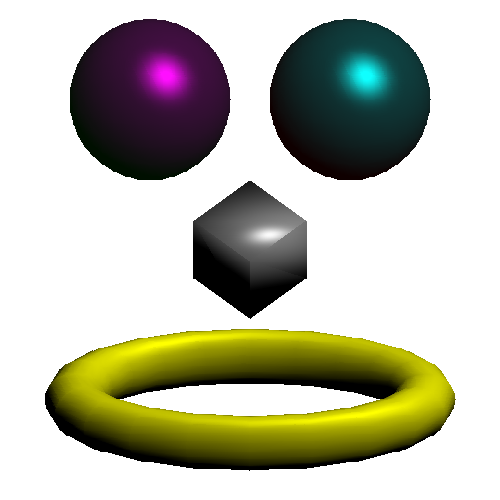
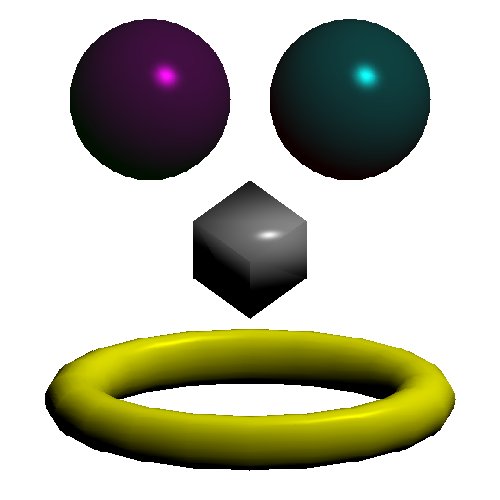
I think I'm finally done with the things I want to add right now

Changed region(s): [[0.66, 0.09, 0.81, 0.21], [0.27, 0.09, 0.39, 0.21], [0.48, 0.45, 0.6, 0.51]]

diff --git a/draw.c b/draw.c
@@ -9,6 +9,7 @@
 #include "gmath.h"
 #include "symtab.h"
 #include "hashTable.h"
+#include "kdTree.h"
 
 /*======== void draw_scanline() ==========
   Inputs: struct matrix *points
@@ -19,7 +20,7 @@
 
   Line algorithm specifically for horizontal scanlines
   ====================*/
-void draw_scanline(int x0, double z0, int x1, double z1, int y, screen s, zbuffer zb, color c0, color c1) {
+void draw_scanline_gouraud(int x0, double z0, int x1, double z1, int y, screen s, zbuffer zb, color c0, color c1) {
   int tempX, tempZ;
   color tempC;
   double cR, cG, cB, dcR, dcG, dcB;
@@ -132,7 +133,7 @@ void draw_scanline_phong(int x0, double z0, int x1, double z1, int y, screen s, 
 
   Fills in polygon i by drawing consecutive horizontal (or vertical) lines.
   ====================*/
-void scanline_convert( struct matrix *points, int i, screen s, zbuffer zb, struct hashTable* h) {
+void scanline_convert_gouraud( struct matrix *points, int i, screen s, zbuffer zb, struct kdTree* kd) {
 
   int top, mid, bot, y;
   double topV[3], midV[3], botV[3];
@@ -221,9 +222,9 @@ void scanline_convert( struct matrix *points, int i, screen s, zbuffer zb, struc
   botV[1] = points->m[1][bot];
   botV[2] = points->m[2][bot];
 
-  iTop = getColor(h, topV);
-  iMid = getColor(h, midV);
-  iBot = getColor(h, botV);
+  iTop = kdGetColor(kd, topV);
+  iMid = kdGetColor(kd, midV);
+  iBot = kdGetColor(kd, botV);
 
   c0R = iBot.red;
   c0G = iBot.green;
@@ -274,7 +275,7 @@ void scanline_convert( struct matrix *points, int i, screen s, zbuffer zb, struc
 
     //printf("%f %f %f %f %f %f\n%d %d %d %d %d %d\n",c0R, c0G, c0B, c1R, c1G, c1B,c0.red,c0.green,c0.blue,c1.red,c1.green,c1.blue);
 
-    draw_scanline(x0, z0, x1, z1, y, s, zb, c0, c1);
+    draw_scanline_gouraud(x0, z0, x1, z1, y, s, zb, c0, c1);
 
     x0+= dx0;
     x1+= dx1;
@@ -294,7 +295,7 @@ void scanline_convert( struct matrix *points, int i, screen s, zbuffer zb, struc
   }//end scanline loop
 }
 
-void scanline_convert_phong( struct matrix *points, int i, screen s, zbuffer zb, struct hashTable* h,
+void scanline_convert_phong( struct matrix *points, int i, screen s, zbuffer zb, struct kdTree* kd, 
   double* view, double light[2][3], color ambient, struct constants* reflect) {
 
   int top, mid, bot, y;
@@ -383,9 +384,9 @@ void scanline_convert_phong( struct matrix *points, int i, screen s, zbuffer zb,
   botV[1] = points->m[1][bot];
   botV[2] = points->m[2][bot];
 
-  set(nTop,getNormal(h, topV));
-  set(nMid,getNormal(h, midV));
-  set(nBot,getNormal(h, botV));
+  set(nTop,kdGetNormal(kd, topV));
+  set(nMid,kdGetNormal(kd, midV));
+  set(nBot,kdGetNormal(kd, botV));
 
   //printf("Top: %f %f %f\nMid: %f %f %f\nBot: %f %f %f\n\n", nTop[0], nTop[1], nTop[2], nMid[0], nMid[1], nMid[2], nBot[0], nBot[1], nBot[2]);
   //printf("%f\n", nBot[0] * nBot[0] + nBot[1] * nBot[1] + nBot[2] * nBot[2]);
@@ -494,7 +495,8 @@ void draw_polygons( struct matrix *polygons, screen s, zbuffer zb,
   double v0[3];
   double v1[3];
   double v2[3];
-  struct hashTable* h = createHT(65536);
+  //struct hashTable* h = createHT(65536);
+  struct kdTree* kd = kdCreate();
   double** normals = malloc(sizeof(double) * (polygons->lastcol));
 
   double drawPercent = 0;
@@ -536,14 +538,14 @@ void draw_polygons( struct matrix *polygons, screen s, zbuffer zb,
     v2[1] = polygons->m[1][point+2];
     v2[2] = polygons->m[2][point+2];
 
-    h = addNormal(h, v0, normal);
-    h = addNormal(h, v1, normal);
-    h = addNormal(h, v2, normal);
+    kd = kdInsert(kd, v0, normal);
+    kd = kdInsert(kd, v1, normal);
+    kd = kdInsert(kd, v2, normal);
 
     //printf("Generating lighting\t%d percent complete\n", (int)(drawPercent*100));
   }
 
-  htNormalize(h, viewNormal, lightNormal, ambient, reflect);
+  kdNormalize(kd, viewNormal, lightNormal, ambient, reflect);
   //printHT(h);
 
   drawPercent = 0;
@@ -560,8 +562,8 @@ void draw_polygons( struct matrix *polygons, screen s, zbuffer zb,
       // get color value only if front facing
       //color i = get_lighting(normal, view, ambient, light, areflect, dreflect, sreflect);
 
-      //scanline_convert(polygons, point, s, zb, h);
-      scanline_convert_phong(polygons, point, s, zb, h, viewNormal, lightNormal, ambient, reflect);
+      if(DRAW_CURRENT == DRAW_GOURAUD) scanline_convert_gouraud(polygons, point, s, zb, kd);
+      else if(DRAW_CURRENT == DRAW_PHONG) scanline_convert_phong(polygons, point, s, zb, kd, viewNormal, lightNormal, ambient, reflect);
 
       /* draw_line( polygons->m[0][point], */
       /*            polygons->m[1][point], */
@@ -589,7 +591,8 @@ void draw_polygons( struct matrix *polygons, screen s, zbuffer zb,
     //printf("Drawing\t%d percent complete\n", (int)(drawPercent*100));
   }
 
-  freeHT(h);
+  //freeHT(h);
+  kdFree(kd);
   free(normals);
 }
 /*======== void add_box() ==========

diff --git a/draw.h b/draw.h
@@ -6,12 +6,17 @@
 #include "ml6.h"
 #include "symtab.h"
 #include "hashTable.h"
+#include "kdTree.h"
 
-void draw_scanline(int x0, double z0, int x1, double z1, int y, screen s, zbuffer zb, color c0, color c1);
-void scanline_convert( struct matrix *points, int i, screen s, zbuffer zb, struct hashTable* h);
+#define DRAW_GOURAUD 0
+#define DRAW_PHONG 1
+#define DRAW_CURRENT 1
+
+void draw_scanline_gouraud(int x0, double z0, int x1, double z1, int y, screen s, zbuffer zb, color c0, color c1);
+void scanline_convert_gouraud( struct matrix *points, int i, screen s, zbuffer zb, struct kdTree* kd);
 void draw_scanline_phong(int x0, double z0, int x1, double z1, int y, screen s, zbuffer zb, double* v0, double* v1,
   double* view, double light[2][3], color ambient, struct constants* reflect);
-void scanline_convert_phong( struct matrix *points, int i, screen s, zbuffer zb, struct hashTable* h,
+void scanline_convert_phong( struct matrix *points, int i, screen s, zbuffer zb, struct kdTree* kd,
   double* view, double light[2][3], color ambient, struct constants* reflect);
 
 //polygon organization

diff --git a/gmath.h b/gmath.h
@@ -13,7 +13,7 @@
 #define BLUE 2
 
 
-#define SPECULAR_EXP 8
+#define SPECULAR_EXP 32
 
 // lighting functions
 color get_lighting( double *normal, double *view, color alight, double light[2][3], struct constants *reflect);
